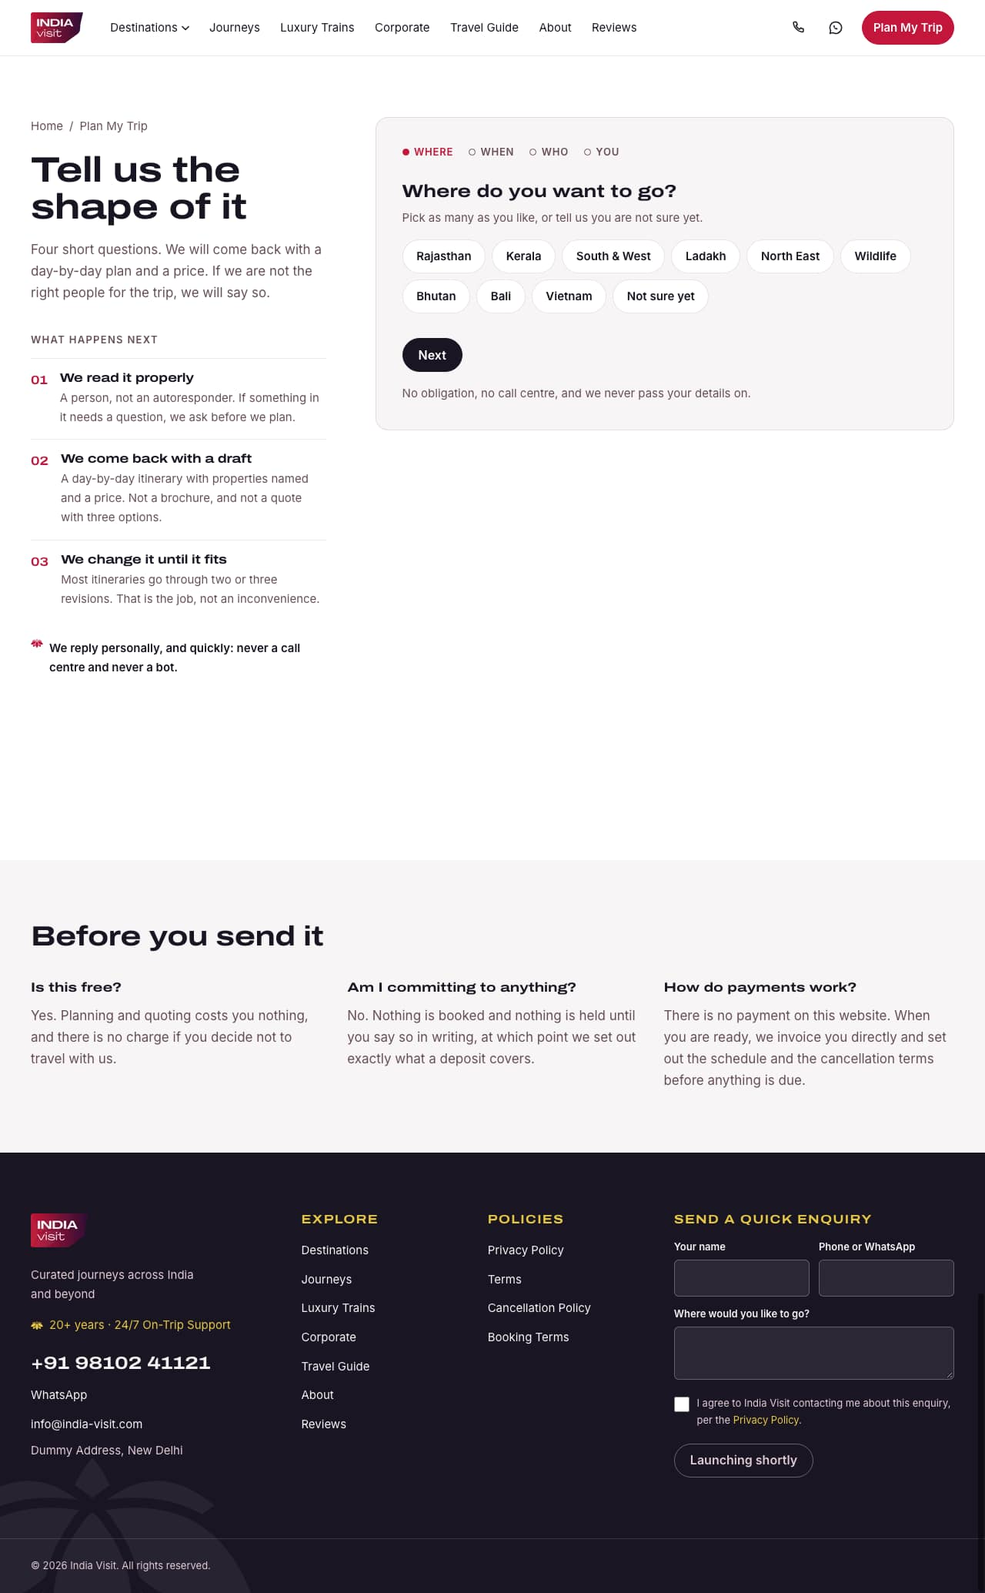
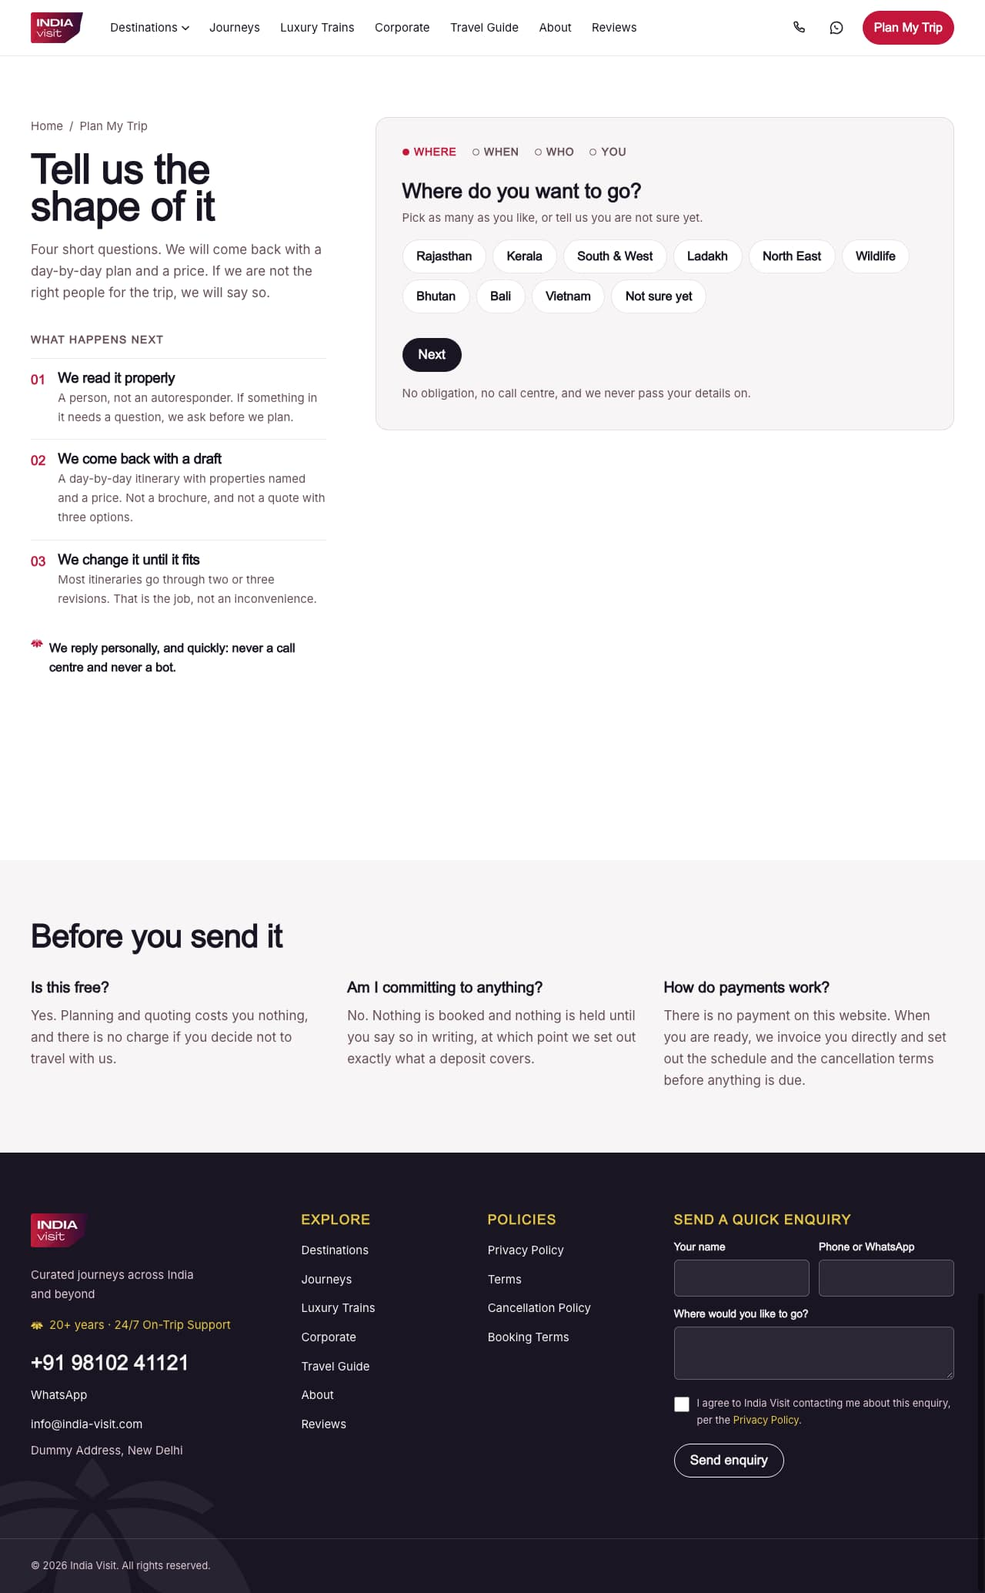
docs: final pre-demo state (forms live, photo rights §27, DEMO_PATH, captures from production)
Forms went live at 18:04 IST (7a07fd4) on the client's GO; verified on
production: 102 lead forms live on all 54 pages, 21 'Launching shortly'
(PDF gates and newsletter), real clicks with the honeypot filled show the
thank-you state. CLIENT_REVIEW_SHEET §27 (photo rights) plus superseded
notes on §1, §9 and §11. DEMO_PATH final for the 7 pm walkthrough
(/admin out of the route), SITE_STATUS, session log, and the 16 route
captures retaken from production. No site files change.

diff --git a/DEMO_PATH.md b/DEMO_PATH.md
@@ -1,32 +1,37 @@
-# DEMO_PATH.md — the client walkthrough, 12 November 2026, 7 pm
+# DEMO_PATH.md — the client walkthrough, 12 November 2026, 7 pm IST
 
-**Site:** https://india-visit-website.pages.dev (production, `main`). Every
-change below is live there. Open it on a laptop first, then repeat the homepage
-on a phone: the phone is where most of the client's visitors will be.
+**Site:** https://india-visit-website.pages.dev (production, `main` at `7a07fd4`,
+live since 18:04 IST). **Frozen:** nothing merges until after the demo.
+Open it on a laptop first, then repeat the homepage on a phone: the phone is
+where most of the client's visitors will be.
 
-Created for the demo on 2026-11-12 (there was no earlier version). Update it
+Created for the demo on 2026-11-12 and refreshed at the freeze. Update it
 whenever the route or an open item changes.
 
 ## The route (about 20 minutes)
 
 | # | Page | Show | Say |
 |---|---|---|---|
-| 1 | **Homepage** `/` | Video hero → trust bar → nine destinations (3×3) → signature journeys → how it works → why India Visit → Luxury Rail banner → corporate band → Travel Guide → "Tell us where you'd like to go" → footer | The phone number, WhatsApp and email are real: tap **Call** and **WhatsApp** on the phone to prove it (+91 98102 41121, info@india-visit.com). |
-| 2 | **Golden Triangle** `/journeys/golden-triangle-5n-6d/` | Hero, quick facts, highlights, glance table, **Expand all** on the day-by-day, practical notes, related trips | One template renders all 20 journeys. To show the branded PDF, open `/downloads/golden-triangle-5n-6d.pdf` directly; the download form on the page is not live yet. |
+| 1 | **Homepage** `/` | Video hero → trust bar → nine destinations (3×3) → signature journeys → how it works → why India Visit → Luxury Rail banner → corporate band → Travel Guide → "Tell us where you'd like to go" → footer | The phone number, WhatsApp and email are real: tap **Call** and **WhatsApp** on the phone to prove it (+91 98102 41121, info@india-visit.com). The enquiry form at the end of the page is live. |
+| 2 | **Golden Triangle** `/journeys/golden-triangle-5n-6d/` | Hero, quick facts, highlights, glance table, **Expand all** on the day-by-day, practical notes, related trips, the enquiry form | One template renders all 20 journeys. The enquiry form is live. To show the branded PDF, open `/downloads/golden-triangle-5n-6d.pdf` directly: the PDF download form on the page still reads "Launching shortly". |
 | 3 | **Kerala with Houseboat** `/journeys/kerala-with-houseboat-11n-12d/` | The longest custom journey | The client's own itinerary, ported section for section. |
 | 4 | **Palace on Wheels** `/journeys/palace-on-wheels-7n-8d/` | Cabins ("Enquire for pricing"), "Operated by RTDC… Operator terms apply", booking steps, policies | Train tariffs are never published (permanent rule). No agent claims anywhere (today's ruling). |
 | 5 | **Luxury trains** `/luxury-trains/` | The three trains, the FAQ | |
 | 6 | **An article** `/travel-guide/best-time-to-visit-ladakh/` | Contents, FAQ, the embedded journey | Eight launch articles are live. |
 | 7 | **Corporate** `/corporate/` | The professional register | |
-| 8 | **Plan My Trip** `/plan-my-trip/` | The four-step form | Forms go live once the first test email lands (see below). |
-| 9 | **The editor** `/admin` | Browse a journey and the settings, **read only** | See "Do not" below. |
+| 8 | **Plan My Trip** `/plan-my-trip/` | The four steps, through to **Send it over** | Live. An enquiry reaches info@india-visit.com within about a minute, sent from enquiries@india-visit.com with the visitor's email as reply-to, so the client's reply goes straight to the customer. |
+
+**Optional live proof at step 8.** Submit one enquiry with your own phone and
+email and the name "Demo enquiry", show the thank-you message ("Thank you — we'll
+reply personally within a day."), then show the email arriving in the Gmail
+inbox. It is a real lead email, so only if you want one there. Reload the page
+to get the form back.
 
 ## Do not
 
-- **Do not save anything in `/admin` during the demo** unless the image round
-  trip has been confirmed in SITE_STATUS.md. The first production save broke
-  the build (fixed and guarded since), and the live test of the fix needs one
-  deliberate save on a non-demo journey first.
+- **Do not open `/admin`** (your ruling today). The live check of image saves
+  through the editor is parked until tomorrow, 13 November. Your Tadoba test
+  save never reached GitHub, so nothing on the site changed.
 - **Avoid the Deccan Odyssey page**: its eight days are provisional until the
   operator's programme arrives (review sheet §22).
 - **Avoid `/reviews/`**: two "Guest review coming soon" slots, by design until
@@ -38,13 +43,18 @@ whenever the route or an open item changes.
 
 | Question | Answer |
 |---|---|
-| "Are these our photos?" | Not yet. They are licensed stand-ins (Unsplash). The Drive folder was inventoried today (455 images, 204 at web resolution or better), but it contains third-party copyrighted images (one carries a visible "© Nick Mayo" watermark), so nothing goes live until the client confirms which images they own or have licensed. Swapping is a content change, no code. |
-| "Why does the form say Launching shortly?" | The lead function is built and deployed. It switches on after one real test email lands in info@india-visit.com, so no enquiry is ever lost. |
-| "Can we edit it ourselves?" | Yes, at `/admin`, signed in with GitHub. Text, images, numbers, new articles. A save that breaks a rule is refused by the build and the live site stays as it was. |
+| "Are these our photos?" | Not yet. They are licensed stand-ins (Unsplash). Your Drive folder was inventoried today: 455 images, 204 at web resolution or better. Five carry somebody else's mark or source (watermarks from three photographers, one image from Wikimedia), so nothing goes live until you tell us which images you own or have licensed. That is section 27 of the review sheet: four swaps are already picked and only wait for your answer. Swapping is a content change, no code. |
+| "Does the form really work?" | Yes. Every enquiry form, Plan My Trip included, sends to info@india-visit.com with the visitor's address as reply-to. The production test lead at 14:33 today landed in the inbox. Next, after the demo: a bot check (Turnstile) and a Google Sheet copy of every lead. |
+| "Why do two forms still say Launching shortly?" | The itinerary-PDF download and the newsletter. The PDF form switches on with the PDF release (the 20 PDFs themselves are printed); the newsletter needs a mailing list to send from. Both are in the next round. |
+| "Can we edit it ourselves?" | Yes, at `/admin`, signed in with GitHub: text, images, numbers, new articles. A save that breaks a rule is refused by the build, and the live site stays as it was. We finish the last check on image saves tomorrow; after that, it is fully open. |
 | "Where are the prices?" | Deliberately off (`showPrices`), and train fares are never published. |
 | "Who wrote the founder's words?" | We did, as a draft (copy register B11). The founder's own words replace it. |
 
 ## Live state at hand-off
 
-See `SITE_STATUS.md` for the line-by-line status, and the session log entry of
-2026-11-12 for what changed today.
+- **Production:** `7a07fd4`, deployed 18:04 IST, frozen until after the demo.
+- **Forms:** 102 lead forms live, on every one of the 54 pages; 21 read "Launching shortly" (the 20 PDF download forms and the newsletter). Checked on production at 18:05: a real click on the homepage form and on Plan My Trip shows the thank-you message, with `/api/lead` answering 200 (run with the honeypot filled, so no email was sent).
+- **Captures** of every route page, desktop and phone, taken from production at
+  the freeze: `reports/demo-2026-11-12/`.
+- Line-by-line status: `SITE_STATUS.md`. What changed today: the three session
+  log entries of 2026-11-12.

diff --git a/SITE_STATUS.md b/SITE_STATUS.md
@@ -1,7 +1,8 @@
 # SITE_STATUS.md — where the India Visit website is, right now
 
-**Updated:** 2026-11-12, consolidated demo round · **Production:** `main` at
-https://india-visit-website.pages.dev · **Demo:** 7 pm today, route in `DEMO_PATH.md`
+**Updated:** 2026-11-12, at the pre-demo freeze · **Production:** `main` at
+`7a07fd4`, https://india-visit-website.pages.dev · **Demo:** 7 pm IST today,
+route in `DEMO_PATH.md` · **Frozen:** nothing merges until after the demo
 
 This file is the one-page answer to "what is live, what is provisional, and
 what is blocking". It is updated in the same commits as the work it describes.
@@ -15,8 +16,8 @@ Detail lives in `SESSION_LOG.md` (the running narrative), `docs/CLIENT_REVIEW_SH
 | M0 Pre-flight · M1 Scaffold · M2 Schema · M3 Components | **Merged** | passed |
 | M4 Page templates (three design rounds) | **Merged** | DESIGN VERDICT: **APPROVED** (client, 2026-11-12) |
 | M5 Content migration | **Merged** | evidence in `reports/m5-gate-summary.json`; two ⚑ items below |
-| **M7 Tina CMS** *(pulled forward)* | **Live on Tina Cloud** (client project connected 2026-11-12) | The first production save corrupted an image path and broke the build; root cause fixed and guarded (see below). **Open:** the live image round trip on Tina Cloud (runbook M7 step 4a) |
-| M6 Forms, lead function, GTM *(runs after M7)* | **M6-minimal deployed, switched off** | `functions/api/lead.ts` (validation, honeypot, Resend) is live but every button still reads "Launching shortly" until an end-to-end test email lands. Turnstile, the Sheet webhook, the PDF release and GTM follow after the demo |
+| **M7 Tina CMS** *(pulled forward)* | **Live on Tina Cloud** (client project connected 2026-11-12) | The first production save corrupted an image path and broke the build; root cause fixed and guarded. **Open:** the live image round trip on Tina Cloud (runbook M7 step 4a). The client's Tadoba test save on 12 Nov never reached GitHub; the check is **parked to 13 Nov** and `/admin` stays closed to saves until then |
+| M6 Forms, lead function, GTM *(runs after M7)* | **M6-minimal LIVE** (2026-11-12, 18:04 IST) | Enquiry forms and Plan My Trip post to `functions/api/lead.ts` (validation, honeypot, Resend), sent from `enquiries@india-visit.com` to `info@india-visit.com` with the visitor as reply-to. The production test lead (14:33) was confirmed in the inbox by the client. The PDF gate and the newsletter still read "Launching shortly". Turnstile, the Sheet webhook, the PDF release and GTM follow after the demo |
 | M8 SEO, analytics, hardening · M9 Launch | not started | PRD §16 checklist |
 
 ## What is on the site
@@ -29,31 +30,30 @@ Detail lives in `SESSION_LOG.md` (the running narrative), `docs/CLIENT_REVIEW_SH
 | City pages | 2 | Jaipur, Kochi |
 | Travel Guide articles | **8 of 8** | the PRD §7.8 launch set |
 | Branded PDFs | **20 of 20** | reprinted 2026-11-12 (real contact line, today's copy); still public at `/downloads/` |
-| Contact details | **real** | +91 98102 41121 (call and WhatsApp), info@india-visit.com. The address is still dummy and flagged |
-| Photography | 0 client, **51 TEMP-PHOTO** + 1 TEMP-VIDEO | all now under `/public/uploads/` in the form Tina writes. The client's Drive folder is inventoried but **blocked on rights** (below) |
+| Lead forms | **102 live**, 21 not yet | live on every page (enquiry forms, Plan My Trip); the 20 PDF download forms and the newsletter read "Launching shortly" |
+| Contact details | **real** | +91 98102 41121 (call and WhatsApp), info@india-visit.com (Cloudflare Email Routing to Gmail; Resend only sends, its "receiving" stays off). The address is still dummy and flagged |
+| Photography | 0 client, **51 TEMP-PHOTO** + 1 TEMP-VIDEO | all under `/public/uploads/` in the form Tina writes. The client's Drive folder is inventoried but **blocked on rights** (below) |
 | Visible em dashes | **0** (was 1,101) | house rule: at most one per screen (CLAUDE.md #7) |
 
 ## ⚑ Blocking or needs the client
 
-1. **Photo rights (P4).** The Drive folder (455 images, 204 at ≥1600px) holds
-   third-party copyrighted images: `Golden Triangle Tour/Fatehpur 2.jpg` and
-   `Rajasthan/Fateh pur 5.jpg` carry a visible "© Nick Mayo" watermark, one North
-   East file is from Wikimedia, and every file's metadata is stripped. Nothing
-   is published until the client confirms which images they own or licensed.
-   Candidates for the demo-path slots are pre-selected (session log).
-2. **Resend (P5).** The DNS records come from Resend's own dashboard (the DKIM
-   key is per account): add `india-visit.com` there, paste the records into
-   Cloudflare DNS (DNS only), create a sending key, and set `RESEND_API_KEY` in
-   Cloudflare Pages (Production + Preview). Then one test email → the buttons go live.
-3. **CMS saves.** Hold all `/admin` saves until (a) Tina Cloud shows `main`
-   indexed at the latest commit and (b) one deliberate test save on a non-demo
-   journey produces a clean diff (runbook M7 step 4a).
-4. **Deccan Odyssey day-by-day**: eight provisional days until the operator's
+1. **Photo rights (P4)**, `CLIENT_REVIEW_SHEET.md` §27. The Drive folder (455
+   images, 204 at ≥1600px) holds third-party images: four carry a
+   photographer's mark ("© Nick Mayo" twice, Dhrubazaan Photography,
+   PrassyPhotography) and one is from Wikimedia. Those five never ship. No
+   image reads as the client's own. Four swaps for the demo-path slots are
+   pre-picked and wait for the client to mark each own / licensed / neither.
+2. **CMS saves.** Hold all `/admin` saves until (a) Tina Cloud shows `main`
+   indexed at the latest commit and (b) one deliberate test save (one word and
+   one image, Tadoba) produces a clean diff and a green build (runbook M7
+   step 4a). Parked to 13 Nov by the client.
+3. **Deccan Odyssey day-by-day**: eight provisional days until the operator's
    programme arrives (`CLIENT_REVIEW_SHEET.md` §22). Do not launch it as-is.
-5. **Legal copy** for `/privacy/`, `/terms/`, `/cancellation/`: structure only,
+4. **Legal copy** for `/privacy/`, `/terms/`, `/cancellation/`: structure only,
    `noindex`, needs the client's adviser (§19).
-6. **PDF gating is not real until the M6 PDF release**: the files are public.
-7. **Copy approval**: drafted strings stay `DRAFT` in `docs/COPY_REGISTER.md`
+5. **PDF gating is not real until the M6 PDF release**: the files are public,
+   and the PDF form reads "Launching shortly".
+6. **Copy approval**: drafted strings stay `DRAFT` in `docs/COPY_REGISTER.md`
    (§A–§R) until struck or approved.
 
 ## Provisional (renders, flagged, reversible)
@@ -67,8 +67,12 @@ Detail lives in `SESSION_LOG.md` (the running narrative), `docs/CLIENT_REVIEW_SH
 
 ## Next action
 
-1. **Client:** Resend key (P5), photo rights (P4), the Tina Cloud index check
-   and one test save (M7 4a).
-2. **Agency, after the demo:** M6 proper (Turnstile, Sheet webhook, PDF release,
+1. **13 Nov, client + agency:** Tina Cloud → Configuration → `main`: index
+   complete (Reindex if not), then the Tadoba test save (one word, one image).
+   The agency reads the diff and rules on `/admin` image editing (M7 4a).
+2. **Client:** photo rights, §27.
+3. **Agency, after the demo:** M6 proper (Turnstile, Sheet webhook, PDF release,
    GTM), then M8. Generalise `check:hero-contrast` to banners below the fold
-   (the homepage trains banner was measured by hand today).
+   (the homepage trains banner was measured by hand on 12 Nov). Cosmetic: at
+   390px the header's Plan My Trip pill wraps onto two lines (unchanged since
+   design round 3).

diff --git a/docs/CLIENT_REVIEW_SHEET.md b/docs/CLIENT_REVIEW_SHEET.md
@@ -14,6 +14,11 @@ tied to a PRD Open Question are also blocked on that question.
 
 ## 1. Palace on Wheels — GSA disclosure wording ⚑ (PRD Open Question #15)
 
+**Superseded 2026-11-12 (client ruling): no "authorised agent", GSA or
+agent-liability wording anywhere on the site.** All three train pages now carry
+a neutral attribution ("Operated by …", "Operator terms apply to your journey"),
+so the draft below is kept only as the record and needs no approval.
+
 The source document names a *different agency* as the booking agent, so its
 disclosure language could not be reused. The wording below is the agency's
 draft and needs your exact approved text.
@@ -102,6 +107,10 @@ a schema change. Train pages are exempt permanently.
 
 ## 9. Contact details — all placeholder
 
+**Updated 2026-11-12:** phone and WhatsApp (+91 98102 41121) and email
+(info@india-visit.com) are real and live. Still needed: the WhatsApp prefill
+wording, the postal address (still flagged dummy) and the social handles.
+
 Every value in `siteSettings` is a placeholder, inventoried in that file's
 `_dummyDataFlags` array. Needed before launch: phone, WhatsApp number, the
 WhatsApp prefill wording, email, postal address, and social handles
@@ -114,6 +123,9 @@ could be built. **Real reviews with recorded consent are required** — the
 schema refuses any entry whose `consentConfirmed` is not `true`.
 
 ## 11. Photography
+
+**Updated 2026-11-12:** the heroes now carry licensed TEMP-PHOTO stand-ins
+(Unsplash), and the Drive folder is answered in §27.
 
 All heroes currently use flagged `PLACEHOLDER-IMAGE` graphics. Awaiting the
 photo archive (pre-processed to ≤2000px wide).
@@ -560,3 +572,45 @@ in those notes — and it only happens once per file.
 Cloud free tier or the editor fights us for more than a day and a half, the
 runbook's fallback is Sveltia on the same content files. It has not been
 needed.
+
+## 27. Photo rights — the Drive folder ⚑ (added 2026-11-12)
+
+The folder you shared ("India Visit photos", ten subfolders) was downloaded and
+inventoried on 12 November: **455 images, 204 of them at 1600px or more** on the
+long side (the bar for replacing a stand-in). **Nothing from it is on the site.**
+The demo and the site run on the licensed stand-ins (Unsplash, commercial use
+allowed) until you answer this section.
+
+**Why nothing went live.** Every file's metadata (camera, author, copyright) has
+been stripped, most are standard web-export sizes (1600 / 1920 / 2048px), and
+five carry somebody else's mark:
+
+| File | Mark |
+|---|---|
+| `Golden Triangle Tour/Fatehpur 2.jpg` | "© Nick Mayo" |
+| `Rajasthan/Fateh pur 5.jpg` | "© Nick Mayo" |
+| `North East/Assamese Crafts 3.jpg` | "Dhrubazaan Photography" logo |
+| `West To South/Mahabalipur 1.jpg` | "facebook.com/PrassyPhotography" |
+| `North East/Brahmhaputra.jpg` | sourced from Wikimedia (usually a Creative Commons licence with attribution terms) |
+
+**These five never ship**, whatever else is cleared. We also looked for images
+that read as your own photography (snapshots from your trips, your guests, your
+team) to list as "likely own": **we found none.** Every usable image looks
+professionally made — postcard-style landscapes, drone shots, posed models,
+resort marketing. If some of them are yours, or licensed to you, please say which.
+
+**What we would use first, once cleared** — the best image for each demo-path slot:
+
+| Folder / file | Would replace | On | Own · Licensed (from whom, which licence) · Neither |
+|---|---|---|---|
+| `Kerala/Alleppey 4.jpg` (3355px) | `TEMP-PHOTO-journey-kerala-houseboat.jpg` | Kerala with Houseboat hero and its homepage card | |
+| `Golden Triangle Tour/Agra 2.jpg` (2000px) | `TEMP-PHOTO-journey-golden-triangle.jpg` | Golden Triangle hero and card | |
+| `Deccan Odyssey/Deccan Odyssey 4.jpg` (1920px) | `TEMP-PHOTO-home-hero-udaipur.jpg` | Deccan Odyssey hero (this looks like the operator's own press photograph: operator permission is enough) | |
+| `Rajasthan/Jaisalmer 6.jpg` (2977px) | `TEMP-PHOTO-dest-rajasthan.jpg` | Rajasthan destination hero and its homepage tile | |
+
+**How to answer.** Mark each row *Own*, *Licensed* (with the source and the
+licence, which must allow use on your website) or *Neither*, and tell us if
+other folders are cleared as a whole. Cleared images are swapped through the
+CMS image fields (content only, no code), processed to the site's sizes and
+formats, and each swap is checked side by side so a photograph is only replaced
+by a better one.

diff --git a/SESSION_LOG.md b/SESSION_LOG.md
@@ -1276,3 +1276,62 @@ commits from an explicit file list.
 2. On the Resend key: one real test lead against production → client confirms
    it landed → flip `LEADS_LIVE` → deploy. Rail: not landed by 4:30 pm, the
    buttons stay "Launching shortly".
+
+## 2026-11-12 (evening) — Final pre-demo round: forms live, §27, freeze
+
+**Resend (client, 13:16).** `india-visit.com` verified in Resend (DKIM and the
+send CNAMEs in Cloudflare DNS, DNS only). Inbound mail to info@ runs through
+Cloudflare Email Routing to Gmail; Resend's receiving MX was removed in that
+setup and **receiving stays off in Resend** (client rule). `RESEND_API_KEY` is
+set for Production and Preview.
+
+**PR #16 (b0c9dd4):** leads are sent from `enquiries@india-visit.com` (optional
+`LEAD_FROM` override) with the enquirer as reply-to; its deploy picked up the key.
+
+**Test lead.** 14:33 IST, one real lead through the production homepage form
+(a native submit, the buttons still off): HTTP 200 and the thank-you page. The
+client confirmed it in the Gmail inbox, every field intact, reply-to correct.
+
+**Buttons live, after the freeze, on the client's explicit GO.** The
+confirmation reached this session at 17:57, after the 16:30 freeze; the GO was
+taken as the client's own exception for this one merge. Before merging, the PR
+#17 preview was driven with real clicks on the homepage and Plan My Trip forms
+with the honeypot filled (the function answers success and sends nothing): the
+thank-you message rendered and took focus, and `/api/lead` answered 200 JSON.
+Merged 18:00 (`7a07fd4`), live at 18:04 IST, then checked on production the
+same way. Census of production: 54 pages, all 200; 123 lead forms, 102 live and 21 "Launching shortly" (the 20 PDF gates and the newsletter), the same counts as the local build.
+
+**Tadoba test save (M7 4a): no commit reached GitHub.** The last change to the
+Tadoba file is the P3 commit. The cause was not diagnosed (the editor's error
+and the Tina Cloud index status were not checked). Parked by the client to
+13 Nov: `/admin` is not opened in the demo and stays closed to saves until one
+clean diff has been read.
+
+**P4 ruling: stays blocked.** Written up as `CLIENT_REVIEW_SHEET.md` §27, a
+rights-confirmation table. A second pass, looking for images that read as the
+client's own photography, found two more marked files (Dhrubazaan Photography,
+PrassyPhotography) and no "likely own" candidates, so five files never ship.
+The four pre-picked swaps wait for own / licensed / neither. The demo runs on
+the TEMP photos.
+
+**Standing rule 7 (client, 12 Nov):** parallel agents' in-progress work is
+never stashed or committed by another task. Recorded with the pinned session
+rules.
+
+**Docs and captures.** DEMO_PATH.md (final route: `/admin` out, forms live,
+the §27 answer), SITE_STATUS.md, and 16 fresh captures of the route taken from
+production, in `reports/demo-2026-11-12/`. The docs merge carries
+`[CF-Pages-Skip]`, so production stays the verified `7a07fd4` build.
+
+**Freeze** from the docs merge (this entry) until after the 7 pm demo.
+
+Milestones: M6-minimal live (the M6 gate proper has not run); M7 open on step
+4a; M8 not started.
+
+### Exact next action
+
+1. 13 Nov: Tina Cloud index check for `main`, then the Tadoba test save; read
+   the diff (only those two fields, `/uploads/…` paths, no reverted text, the
+   upload in `public/uploads/`, a green build) and rule on `/admin`.
+2. Client: §27 photo rights.
+3. After the demo: M6 proper (Turnstile, Sheet webhook, PDF release, GTM).
